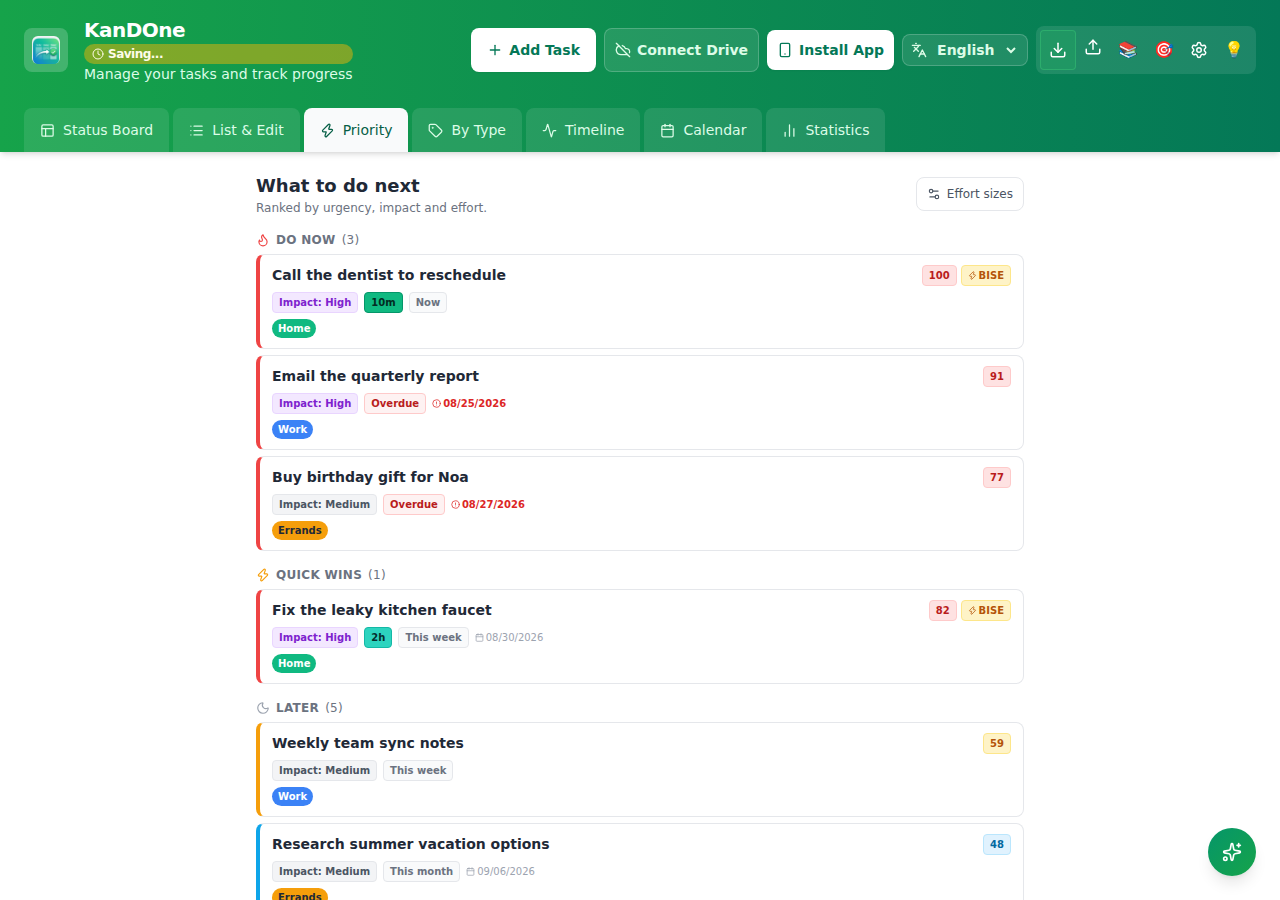
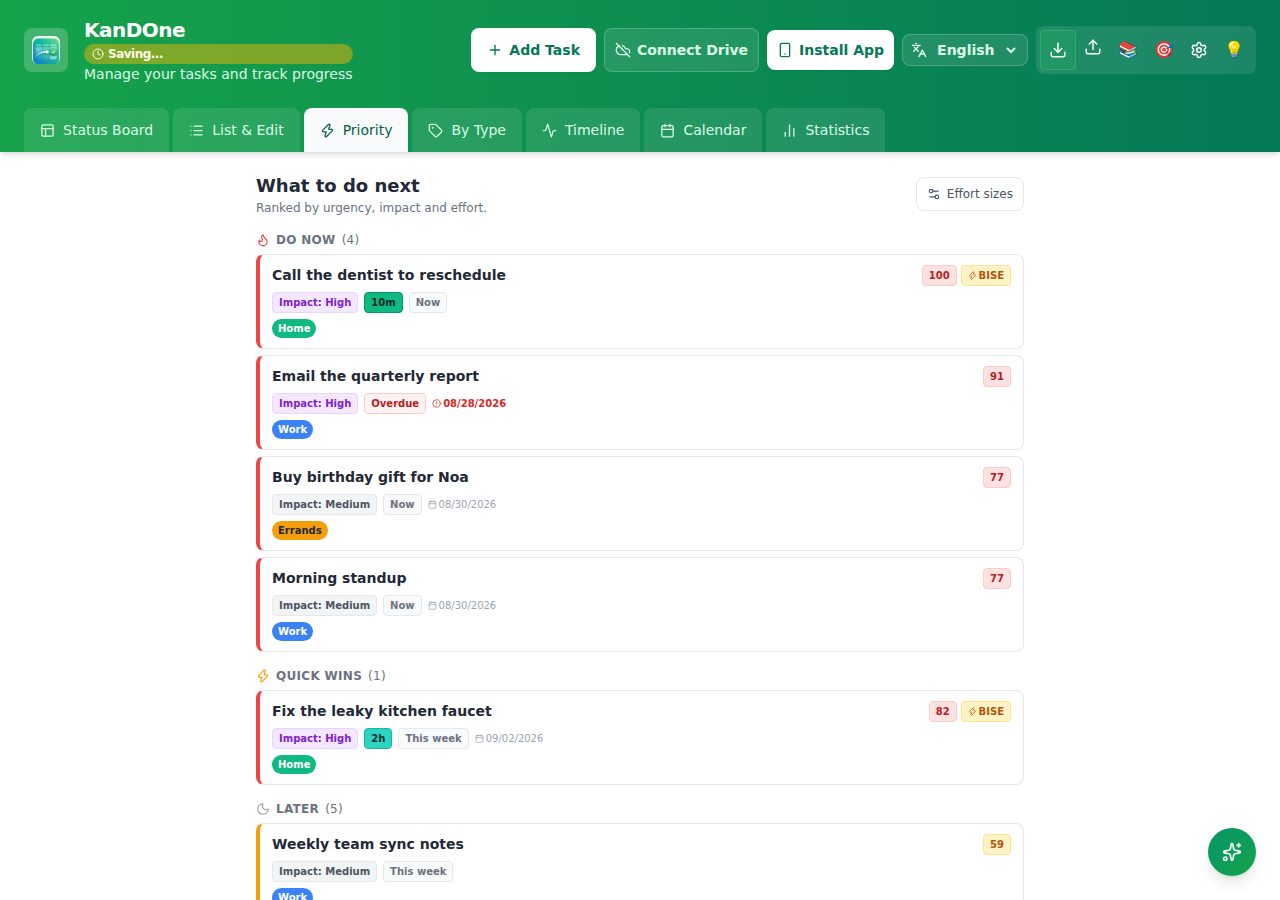
docs: regenerate all screenshots to match current features (#54)
The 4 original screenshots (board, task form, task detail, stats)
predated the Priority and By Type tabs — they showed only 5 tabs in the
header and no type badges on cards, both stale relative to the current
app.

- Add a "Morning standup" task to the e2e seed data (routine + reminder +
  due time + label + type), matching the scenario the original 3
  screenshots depicted, and give the task() helper a dueTime override.
- Add screenshot-capture tests for board-with-routine-task,
  task-detail-routine-reminder, phase-b-task-form, and stats-by-label,
  reusing the same seed data as the other 6 captures.
- Regenerate all 10 screenshots so every one reflects the current
  7-tab app with type badges.

diff --git a/e2e/screenshots.spec.js b/e2e/screenshots.spec.js
@@ -3,7 +3,7 @@ import path from 'path';
 import { fileURLToPath } from 'url';
 import { STORAGE_KEYS, TASKS_LABELS_KEY, E2E_AI_STORAGE } from '../src/storageKeys.js';
 import { getStorageKey } from '../src/statuses.js';
-import { openTemplateLibrary, mockGeminiChatStream } from './helpers.js';
+import { openTemplateLibrary, mockGeminiChatStream, selectListTask } from './helpers.js';
 
 const __dirname = path.dirname(fileURLToPath(import.meta.url));
 const OUT_DIR = path.resolve(__dirname, '../docs/images');
@@ -33,7 +33,7 @@ function task(overrides) {
     urgency: overrides.urgency || '',
     type: overrides.type || '',
     dueDate: overrides.dueDate || '',
-    dueTime: '',
+    dueTime: overrides.dueTime || '',
     duration: { value: '', unit: 'hour' },
     effort: overrides.effort || { value: '', unit: 'hour' },
     labelIds: overrides.labelIds || [],
@@ -90,6 +90,12 @@ const TASKS = [
   task({
     id: 't-research', name: 'Research summer vacation options', type: 'research', status: 'active',
     impact: 'medium', urgency: 'month', dueDate: daysFromNow(10), labelIds: ['lbl-errands'],
+  }),
+  task({
+    id: 't-standup', name: 'Morning standup', type: 'other', status: 'active',
+    impact: 'medium', dueDate: daysFromNow(0), dueTime: '09:00', labelIds: ['lbl-work'],
+    routine: { enabled: true, frequency: 'daily', interval: 1, weekdays: [1, 2, 3, 4, 5], endDate: '' },
+    reminder: { enabled: true, minutesBefore: 15, snoozedUntil: '' },
   }),
 ];
 
@@ -184,5 +190,43 @@ test.describe('capture README screenshots', () => {
     await page.getByText(reply).waitFor({ timeout: 15_000 });
 
     await snap(page, 'ai-coach.png');
+  });
+
+  test('board with routine task', async ({ page }) => {
+    await seedTasks(page);
+    await page.goto('/');
+    await page.getByText('Morning standup').waitFor();
+
+    await snap(page, 'board-with-routine-task.png');
+  });
+
+  test('task detail with routine and reminder', async ({ page }) => {
+    await seedTasks(page);
+    await page.goto('/');
+    await page.getByRole('button', { name: /List & Edit/i }).click();
+    await selectListTask(page, 'Morning standup');
+    await page.getByRole('heading', { name: 'Steps (0)' }).waitFor();
+
+    await snap(page, 'task-detail-routine-reminder.png');
+  });
+
+  test('phase B task form — routine, due time, reminder', async ({ page }) => {
+    await seedTasks(page);
+    await page.goto('/');
+    await page.getByRole('button', { name: /List & Edit/i }).click();
+    await selectListTask(page, 'Morning standup');
+    await page.getByRole('button', { name: /Edit Details/i }).click();
+    await page.getByText('Routine task').waitFor();
+
+    await snap(page, 'phase-b-task-form.png');
+  });
+
+  test('stats by label', async ({ page }) => {
+    await seedTasks(page);
+    await page.goto('/');
+    await page.getByRole('button', { name: /^Statistics$/i }).click();
+    await page.getByText('By Label').waitFor();
+
+    await snap(page, 'stats-by-label.png');
   });
 });
